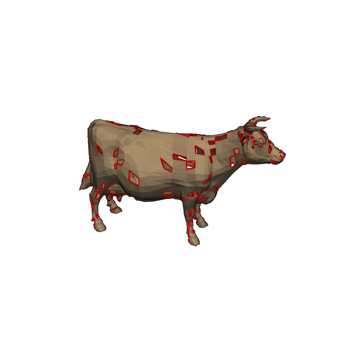
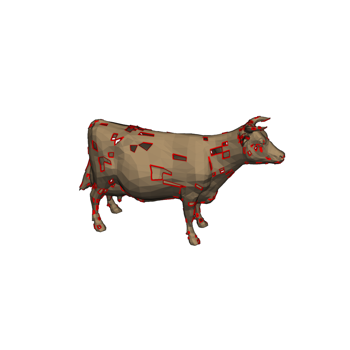
Update docs after building Travis build 66 of pyvista/pymeshfix
The docs were built from the branch 'master' against the commit
efa9f30940d9cfef207f6eea6435ef51c3168526.

The Travis build that generated this commit is at
https://travis-ci.org/pyvista/pymeshfix/jobs/576530196.

The doctr command that was run is

    /home/travis/virtualenv/python3.7.1/bin/doctr deploy --built-docs ./docs/_build/html/ .

Changed region(s): [[0.4286, 0.3143, 0.8286, 0.7143], [0.2286, 0.3429, 0.4571, 0.6571], [0.4, 0.5714, 0.4286, 0.6]]

diff --git a/searchindex.js b/searchindex.js
@@ -1,1 +1,1 @@
-Search.setIndex({docnames:["api","examples/bunny","examples/cow","examples/index","examples/sg_execution_times","examples/torso","index"],envversion:{"sphinx.domains.c":1,"sphinx.domains.changeset":1,"sphinx.domains.cpp":1,"sphinx.domains.javascript":1,"sphinx.domains.math":2,"sphinx.domains.python":1,"sphinx.domains.rst":1,"sphinx.domains.std":1,sphinx:56},filenames:["api.rst","examples/bunny.rst","examples/cow.rst","examples/index.rst","examples/sg_execution_times.rst","examples/torso.rst","index.rst"],objects:{"pymeshfix.MeshFix":{extract_holes:[0,1,1,""],load_arrays:[0,1,1,""],mesh:[0,2,1,""],plot:[0,1,1,""],repair:[0,1,1,""],save:[0,1,1,""],write:[0,1,1,""]},pymeshfix:{MeshFix:[0,0,1,""],_meshfix:[0,3,0,"-"],meshfix:[0,3,0,"-"]}},objnames:{"0":["py","class","Python class"],"1":["py","method","Python method"],"2":["py","attribute","Python attribute"],"3":["py","module","Python module"]},objtypes:{"0":"py:class","1":"py:method","2":"py:attribute","3":"py:module"},terms:{"083e":5,"0x7fcc7811b228":5,"0x7fcc7811b348":2,"0x7fcc7882e5e8":2,"320e":5,"442e":5,"446e":2,"624e":5,"637e":2,"680e":5,"696e":2,"701e":2,"720e":5,"760e":2,"998e":2,"case":6,"class":0,"default":0,"float":6,"import":[1,2,5,6],"new":0,"public":6,"return":[0,6],"true":[0,1,2,5],"while":6,FOR:6,One:6,The:6,There:6,Use:2,_meshfix:6,abov:6,absolut:5,access:[0,6],add:2,add_mesh:[1,2,5],addit:0,again:6,agreement:6,all:[0,6],allow:6,along:5,altern:6,ani:6,appi:5,approach:6,arg:0,argument:0,arrai:[0,2,5,6],ascii:0,assum:6,attempt:[0,6],atten:[0,6],author:6,award:6,base:[0,6],been:6,befor:0,begin:0,bell:6,better:6,binari:0,bool:0,both:0,bound:[2,5,6],boundari:[0,6],bring:6,bunni:[3,4],cad:6,camera:[1,2],camera_posit:[1,2,5],can:[0,6],cannot:6,cast:2,cell:[2,5],charact:0,check:6,cite:6,clean:[0,6],clean_from_arrai:6,clean_from_fil:6,click:[1,2,5],clone:6,close:6,cnr:6,coars:6,code:[1,2,5],color:[1,2,5],com:6,commerci:6,commun:6,complex:5,compon:[0,2,5,6],comput:6,contain:0,contract:6,control:6,copi:6,correct:6,could:6,cow:[3,4],cpo:[1,2,5],cpos_ear:5,creat:6,cython:[0,6],data:0,debug:0,defect:6,defin:1,degener:6,degeneraci:[1,2,5],deprec:[0,2],depth:[1,2,5],design:6,detail:6,digit:6,directli:6,disabl:0,disk:0,distribut:6,doi:6,download:[1,2,5],download_bunni:1,download_cow:2,download_torso:5,drive:6,dual:6,each:0,ear:5,eas:6,either:[0,6],element:6,emphas:5,enabl:0,enable_eye_dome_light:[1,2,5],ensur:5,even:6,exampl:[1,2,4,5],execut:4,extens:0,extract:[0,1,5],extract_geometri:2,extract_hol:[0,1,2,5],eye_dome_light:5,face:[0,6],fail:6,fals:0,faster:0,fclean:6,file:[0,4],filenam:0,filetyp:0,fill:6,fill_small_boundari:6,filter:5,fit:6,fix:[1,2,5],flaw:6,follow:[0,6],format:6,foundat:6,free:6,from:[0,1,2,5,6],ftype:0,full:[1,2,5],galleri:[1,2,3,5],gener:[1,2,3,5,6],git:6,github:6,gnu:6,gpl:6,hard:6,has:6,have:6,help:[1,2,5],here:[1,2,5,6],hole:[0,1,2,5,6],holei:[3,4],holy_cow:2,hope:6,how:6,http:6,idea:6,imati:6,impli:6,indic:0,infer:0,infil:6,inner_loop:6,inplac:0,input:6,instead:2,int32:6,interfac:0,intersect:[1,2,5,6],invert:2,ipynb:[1,2,5],isol:0,join:[0,6],join_closest_compon:6,joincomp:0,jupyt:[1,2,5],keyword:0,kwarg:0,largest:0,later:6,left:6,leverag:6,librari:6,licens:6,lightweight:6,line:0,line_width:[1,2,5],list:6,load:[0,6],load_arrai:[0,6],loadfil:6,locat:2,mai:[0,6],main:6,marco:[0,6],max_it:6,memori:6,merchant:6,mesh:[0,1,2,5,6],meshfix:[0,1,2,5,6],method:0,might:6,minut:[1,2,5],model:6,modifi:6,modul:[0,6],more:6,much:0,must:6,n_cell:2,nativ:6,ndarrai:0,nearbi:[0,6],necessari:6,need:5,nice:2,note:0,notebook:[1,2,5],numpi:[0,2,6],object:[0,6],occurr:6,one:0,open:0,option:[0,6],org:6,other:6,out:[1,2,5,6],outfil:6,outlin:[1,2,5],output:6,over:6,overridden:0,paper:6,paramet:0,part:[5,6],particular:6,patch:[1,2,5],percept:[1,2,5],perform:[0,6],perfrom:5,pip:6,pleas:6,plot:[0,1,2,5,6],plotter:[1,2,5],ply:[0,6],point:[0,2,5],polydata:[0,2,5],polygon:6,polyhedr:5,polyhedron:6,portabl:6,posit:1,present:6,print:[0,2,5,6],process:0,produc:6,program:6,proper:6,publish:6,purpos:6,pymeshfix:[0,1,2,5],pypi:6,python:[0,1,2,5,6],pytmesh:6,pyvista:[0,1,2,5,6],rand:2,random:2,raw:6,reach:6,read:6,readi:1,reason:6,redistribut:6,refer:6,region:6,remov:[0,2,5,6],remove_smallest_compon:0,render:[1,2],repair:[0,1,2,5,6],repres:6,requir:6,research:6,reserv:6,result:[2,6],return_arrai:6,right:6,root:2,run:[1,2,5,6],s00371:6,same:6,save:[0,6],save_fil:6,script:[1,2,5],second:[1,2,5],see:6,self:6,set:6,should:[0,6],show:[0,1,2,5],show_edg:5,show_hol:0,simpl:0,simpli:5,singl:6,singular:6,small:[2,5],softwar:6,solid:6,sort:6,sourc:[1,2,5,6],specif:6,specifi:0,speed:6,sphinx:[1,2,3,5],sphinx_gallery_thumbnail_numb:[1,2,5],springer:6,stl:0,str:0,string:0,subtl:5,surfac:[0,6],take:6,term:6,tessel:6,test:6,tetrahedr:0,than:0,thei:6,them:0,therefor:6,therein:6,thi:[0,5,6],three:0,threshold:2,thu:6,tight:5,time:[1,2,5],tin:6,tmesh:6,torso:[3,4],total:[1,2,4,5],tri_filt:[2,5],triangl:[0,5,6],triangul:2,triangular:0,txt:6,type:0,typic:6,unavail:6,under:6,understand:6,unless:0,unmodifi:6,updat:0,use:6,used:6,useful:6,user:6,uses:6,using:[0,6],vclean:6,verbos:[0,1,2,5],version:6,vertex:[0,6],view:6,visual:6,vtk:0,vtkinterfac:6,warn:2,warranti:6,water:5,watertight:6,where:[5,6],whistl:6,win:6,wish:6,with_vtk:6,within:6,wonder:6,work:6,wrap:0,wrapper:[0,6],write:[0,6],written:0,www:6,xyz:0,you:6,your:6},titles:["API Reference","Bunny","Holey Cow","Examples","Computation times","Torso","PyMeshFix"],titleterms:{algorithm:6,api:0,bunni:1,citat:6,complet:6,comput:4,copyright:6,cow:2,depend:6,easi:6,exampl:[3,6],holei:2,instal:6,polici:6,pymeshfix:6,refer:0,time:4,torso:5,vtk:6,without:6}})
+Search.setIndex({docnames:["api","examples/bunny","examples/cow","examples/index","examples/sg_execution_times","examples/torso","index"],envversion:{"sphinx.domains.c":1,"sphinx.domains.changeset":1,"sphinx.domains.cpp":1,"sphinx.domains.javascript":1,"sphinx.domains.math":2,"sphinx.domains.python":1,"sphinx.domains.rst":1,"sphinx.domains.std":1,sphinx:56},filenames:["api.rst","examples/bunny.rst","examples/cow.rst","examples/index.rst","examples/sg_execution_times.rst","examples/torso.rst","index.rst"],objects:{"pymeshfix.MeshFix":{extract_holes:[0,1,1,""],load_arrays:[0,1,1,""],mesh:[0,2,1,""],plot:[0,1,1,""],repair:[0,1,1,""],save:[0,1,1,""],write:[0,1,1,""]},pymeshfix:{MeshFix:[0,0,1,""],_meshfix:[0,3,0,"-"],meshfix:[0,3,0,"-"]}},objnames:{"0":["py","class","Python class"],"1":["py","method","Python method"],"2":["py","attribute","Python attribute"],"3":["py","module","Python module"]},objtypes:{"0":"py:class","1":"py:method","2":"py:attribute","3":"py:module"},terms:{"083e":5,"0x7fb350035408":5,"0x7fb350035528":2,"0x7fb35010b9a8":2,"320e":5,"442e":5,"446e":2,"624e":5,"637e":2,"680e":5,"701e":2,"720e":5,"760e":2,"998e":2,"case":6,"class":0,"default":0,"float":6,"import":[1,2,5,6],"new":0,"public":6,"return":[0,6],"true":[0,1,2,5],"while":6,FOR:6,One:6,The:6,There:6,Use:2,_meshfix:6,abov:6,absolut:5,access:[0,6],add:2,add_mesh:[1,2,5],addit:0,again:6,agreement:6,all:[0,6],allow:6,along:5,altern:6,ani:6,appi:5,approach:6,arg:0,argument:0,arrai:[0,2,5,6],ascii:0,assum:6,attempt:[0,6],atten:[0,6],author:6,award:6,base:[0,6],been:6,befor:0,begin:0,bell:6,better:6,binari:0,bool:0,both:0,bound:[2,5,6],boundari:[0,6],bring:6,bunni:[3,4],cad:6,camera:[1,2],camera_posit:[1,2,5],can:[0,6],cannot:6,cast:2,cell:[2,5],charact:0,check:6,cite:6,clean:[0,6],clean_from_arrai:6,clean_from_fil:6,click:[1,2,5],clone:6,close:6,cnr:6,coars:6,code:[1,2,5],color:[1,2,5],com:6,commerci:6,commun:6,complex:5,compon:[0,2,5,6],comput:6,contain:0,contract:6,control:6,copi:6,correct:6,could:6,cow:[3,4],cpo:[1,2,5],cpos_ear:5,creat:6,cython:[0,6],data:0,debug:0,defect:6,defin:1,degener:6,degeneraci:[1,2,5],deprec:[0,2],depth:[1,2,5],design:6,detail:6,digit:6,directli:6,disabl:0,disk:0,distribut:6,doi:6,download:[1,2,5],download_bunni:1,download_cow:2,download_torso:5,drive:6,dual:6,each:0,ear:5,eas:6,either:[0,6],element:6,emphas:5,enabl:0,enable_eye_dome_light:[1,2,5],ensur:5,even:6,exampl:[1,2,4,5],execut:4,extens:0,extract:[0,1,5],extract_geometri:2,extract_hol:[0,1,2,5],eye_dome_light:5,face:[0,6],fail:6,fals:0,faster:0,fclean:6,file:[0,4],filenam:0,filetyp:0,fill:6,fill_small_boundari:6,filter:5,fit:6,fix:[1,2,5],flaw:6,follow:[0,6],format:6,foundat:6,free:6,from:[0,1,2,5,6],ftype:0,full:[1,2,5],galleri:[1,2,3,5],gener:[1,2,3,5,6],git:6,github:6,gnu:6,gpl:6,hard:6,has:6,have:6,help:[1,2,5],here:[1,2,5,6],hole:[0,1,2,5,6],holei:[3,4],holy_cow:2,hope:6,how:6,http:6,idea:6,imati:6,impli:6,indic:0,infer:0,infil:6,inner_loop:6,inplac:0,input:6,instead:2,int32:6,interfac:0,intersect:[1,2,5,6],invert:2,ipynb:[1,2,5],isol:0,join:[0,6],join_closest_compon:6,joincomp:0,jupyt:[1,2,5],keyword:0,kwarg:0,largest:0,later:6,left:6,leverag:6,librari:6,licens:6,lightweight:6,line:0,line_width:[1,2,5],list:6,load:[0,6],load_arrai:[0,6],loadfil:6,locat:2,mai:[0,6],main:6,marco:[0,6],max_it:6,memori:6,merchant:6,mesh:[0,1,2,5,6],meshfix:[0,1,2,5,6],method:0,might:6,minut:[1,2,5],model:6,modifi:6,modul:[0,6],more:6,much:0,must:6,n_cell:2,nativ:6,ndarrai:0,nearbi:[0,6],necessari:6,need:5,nice:2,note:0,notebook:[1,2,5],numpi:[0,2,6],object:[0,6],occurr:6,one:0,open:0,option:[0,6],org:6,other:6,out:[1,2,5,6],outfil:6,outlin:[1,2,5],output:6,over:6,overridden:0,paper:6,paramet:0,part:[5,6],particular:6,patch:[1,2,5],percept:[1,2,5],perform:[0,6],perfrom:5,pip:6,pleas:6,plot:[0,1,2,5,6],plotter:[1,2,5],ply:[0,6],point:[0,2,5],polydata:[0,2,5],polygon:6,polyhedr:5,polyhedron:6,portabl:6,posit:1,present:6,print:[0,2,5,6],process:0,produc:6,program:6,proper:6,publish:6,purpos:6,pymeshfix:[0,1,2,5],pypi:6,python:[0,1,2,5,6],pytmesh:6,pyvista:[0,1,2,5,6],rand:2,random:2,raw:6,reach:6,read:6,readi:1,reason:6,redistribut:6,refer:6,region:6,remov:[0,2,5,6],remove_smallest_compon:0,render:[1,2],repair:[0,1,2,5,6],repres:6,requir:6,research:6,reserv:6,result:[2,6],return_arrai:6,right:6,root:2,run:[1,2,5,6],s00371:6,same:6,save:[0,6],save_fil:6,script:[1,2,5],second:[1,2,5],see:6,self:6,set:6,should:[0,6],show:[0,1,2,5],show_edg:5,show_hol:0,simpl:0,simpli:5,singl:6,singular:6,small:[2,5],softwar:6,solid:6,sort:6,sourc:[1,2,5,6],specif:6,specifi:0,speed:6,sphinx:[1,2,3,5],sphinx_gallery_thumbnail_numb:[1,2,5],springer:6,stl:0,str:0,string:0,subtl:5,surfac:[0,6],take:6,term:6,tessel:6,test:6,tetrahedr:0,than:0,thei:6,them:0,therefor:6,therein:6,thi:[0,5,6],three:0,threshold:2,thu:6,tight:5,time:[1,2,5],tin:6,tmesh:6,torso:[3,4],total:[1,2,4,5],tri_filt:[2,5],triangl:[0,5,6],triangul:2,triangular:0,txt:6,type:0,typic:6,unavail:6,under:6,understand:6,unless:0,unmodifi:6,updat:0,use:6,used:6,useful:6,user:6,uses:6,using:[0,6],vclean:6,verbos:[0,1,2,5],version:6,vertex:[0,6],view:6,visual:6,vtk:0,vtkinterfac:6,warn:2,warranti:6,water:5,watertight:6,where:[5,6],whistl:6,win:6,wish:6,with_vtk:6,within:6,wonder:6,work:6,wrap:0,wrapper:[0,6],write:[0,6],written:0,www:6,xyz:0,you:6,your:6},titles:["API Reference","Bunny","Holey Cow","Examples","Computation times","Torso","PyMeshFix"],titleterms:{algorithm:6,api:0,bunni:1,citat:6,complet:6,comput:4,copyright:6,cow:2,depend:6,easi:6,exampl:[3,6],holei:2,instal:6,polici:6,pymeshfix:6,refer:0,time:4,torso:5,vtk:6,without:6}})

diff --git a/examples/cow.html b/examples/cow.html
@@ -224,8 +224,8 @@
 </div>
 <p class="sphx-glr-script-out">Out:</p>
 <div class="sphx-glr-script-out highlight-none notranslate"><div class="highlight"><pre><span></span>WARNING:root:DEPRECATED: ``.tri_filter`` is deprecated. Use ``.triangulate`` instead.
-PolyData (0x7fcc7811b348)
-  N Cells:      5213
+PolyData (0x7fb350035528)
+  N Cells:      5204
   N Points:     2903
   X Bounds:     -4.446e+00, 5.998e+00
   Y Bounds:     -3.637e+00, 2.760e+00
@@ -258,7 +258,7 @@ PolyData (0x7fcc7811b348)
 <p class="sphx-glr-script-out">Out:</p>
 <div class="sphx-glr-script-out highlight-none notranslate"><div class="highlight"><pre><span></span>Removed 1 small components
 Patching holes...
-Patched 205 holes
+Patched 203 holes
 Fixing degeneracies and intersections
 </pre></div>
 </div>
@@ -268,10 +268,10 @@ Fixing degeneracies and intersections
 </pre></div>
 </div>
 <p class="sphx-glr-script-out">Out:</p>
-<div class="sphx-glr-script-out highlight-none notranslate"><div class="highlight"><pre><span></span>PolyData (0x7fcc7882e5e8)
-  N Cells:      5434
-  N Points:     2719
-  X Bounds:     -3.696e+00, 5.998e+00
+<div class="sphx-glr-script-out highlight-none notranslate"><div class="highlight"><pre><span></span>PolyData (0x7fb35010b9a8)
+  N Cells:      5750
+  N Points:     2877
+  X Bounds:     -4.446e+00, 5.998e+00
   Y Bounds:     -3.637e+00, 2.760e+00
   Z Bounds:     -1.701e+00, 1.701e+00
   N Arrays:     0
@@ -281,7 +281,7 @@ Fixing degeneracies and intersections
 </pre></div>
 </div>
 <img alt="../_images/sphx_glr_cow_002.png" class="sphx-glr-single-img" src="../_images/sphx_glr_cow_002.png" />
-<p class="sphx-glr-timing"><strong>Total running time of the script:</strong> ( 0 minutes  5.385 seconds)</p>
+<p class="sphx-glr-timing"><strong>Total running time of the script:</strong> ( 0 minutes  5.245 seconds)</p>
 <div class="sphx-glr-footer class sphx-glr-footer-example docutils container" id="sphx-glr-download-examples-cow-py">
 <div class="sphx-glr-download docutils container">
 <p><a class="reference download internal" download="" href="../_downloads/700f1bf357ea69088c0a34b0aa306d26/cow.py"><code class="xref download docutils literal notranslate"><span class="pre">Download</span> <span class="pre">Python</span> <span class="pre">source</span> <span class="pre">code:</span> <span class="pre">cow.py</span></code></a></p>

diff --git a/examples/sg_execution_times.html b/examples/sg_execution_times.html
@@ -193,11 +193,11 @@
             
   <div class="section" id="computation-times">
 <span id="sphx-glr-examples-sg-execution-times"></span><h1>Computation times<a class="headerlink" href="#computation-times" title="Permalink to this headline">¶</a></h1>
-<p><strong>00:37.136</strong> total execution time for <strong>examples</strong> files:</p>
+<p><strong>00:34.505</strong> total execution time for <strong>examples</strong> files:</p>
 <ul class="simple">
-<li><p><strong>00:17.644</strong>: <a class="reference internal" href="torso.html#sphx-glr-examples-torso-py"><span class="std std-ref">Torso</span></a> (<code class="docutils literal notranslate"><span class="pre">torso.py</span></code>)</p></li>
-<li><p><strong>00:14.107</strong>: <a class="reference internal" href="bunny.html#sphx-glr-examples-bunny-py"><span class="std std-ref">Bunny</span></a> (<code class="docutils literal notranslate"><span class="pre">bunny.py</span></code>)</p></li>
-<li><p><strong>00:05.385</strong>: <a class="reference internal" href="cow.html#sphx-glr-examples-cow-py"><span class="std std-ref">Holey Cow</span></a> (<code class="docutils literal notranslate"><span class="pre">cow.py</span></code>)</p></li>
+<li><p><strong>00:16.198</strong>: <a class="reference internal" href="torso.html#sphx-glr-examples-torso-py"><span class="std std-ref">Torso</span></a> (<code class="docutils literal notranslate"><span class="pre">torso.py</span></code>)</p></li>
+<li><p><strong>00:13.062</strong>: <a class="reference internal" href="bunny.html#sphx-glr-examples-bunny-py"><span class="std std-ref">Bunny</span></a> (<code class="docutils literal notranslate"><span class="pre">bunny.py</span></code>)</p></li>
+<li><p><strong>00:05.245</strong>: <a class="reference internal" href="cow.html#sphx-glr-examples-cow-py"><span class="std std-ref">Holey Cow</span></a> (<code class="docutils literal notranslate"><span class="pre">cow.py</span></code>)</p></li>
 </ul>
 </div>
 

diff --git a/examples/torso.html b/examples/torso.html
@@ -219,7 +219,7 @@ parts of the mesh</p>
 </pre></div>
 </div>
 <p class="sphx-glr-script-out">Out:</p>
-<div class="sphx-glr-script-out highlight-none notranslate"><div class="highlight"><pre><span></span>PolyData (0x7fcc7811b228)
+<div class="sphx-glr-script-out highlight-none notranslate"><div class="highlight"><pre><span></span>PolyData (0x7fb350035408)
   N Cells:      12448
   N Points:     12015
   X Bounds:     -1.680e+02, 1.720e+02
@@ -282,7 +282,7 @@ Fixing degeneracies and intersections
 </pre></div>
 </div>
 <img alt="../_images/sphx_glr_torso_004.png" class="sphx-glr-single-img" src="../_images/sphx_glr_torso_004.png" />
-<p class="sphx-glr-timing"><strong>Total running time of the script:</strong> ( 0 minutes  17.644 seconds)</p>
+<p class="sphx-glr-timing"><strong>Total running time of the script:</strong> ( 0 minutes  16.198 seconds)</p>
 <div class="sphx-glr-footer class sphx-glr-footer-example docutils container" id="sphx-glr-download-examples-torso-py">
 <div class="sphx-glr-download docutils container">
 <p><a class="reference download internal" download="" href="../_downloads/988781b05954ec5068adbfe7a980b827/torso.py"><code class="xref download docutils literal notranslate"><span class="pre">Download</span> <span class="pre">Python</span> <span class="pre">source</span> <span class="pre">code:</span> <span class="pre">torso.py</span></code></a></p>

diff --git a/examples/bunny.html b/examples/bunny.html
@@ -255,7 +255,7 @@ Fixing degeneracies and intersections
 </pre></div>
 </div>
 <img alt="../_images/sphx_glr_bunny_003.png" class="sphx-glr-single-img" src="../_images/sphx_glr_bunny_003.png" />
-<p class="sphx-glr-timing"><strong>Total running time of the script:</strong> ( 0 minutes  14.107 seconds)</p>
+<p class="sphx-glr-timing"><strong>Total running time of the script:</strong> ( 0 minutes  13.062 seconds)</p>
 <div class="sphx-glr-footer class sphx-glr-footer-example docutils container" id="sphx-glr-download-examples-bunny-py">
 <div class="sphx-glr-download docutils container">
 <p><a class="reference download internal" download="" href="../_downloads/81a10a6450959c49a589aa8cee630836/bunny.py"><code class="xref download docutils literal notranslate"><span class="pre">Download</span> <span class="pre">Python</span> <span class="pre">source</span> <span class="pre">code:</span> <span class="pre">bunny.py</span></code></a></p>
